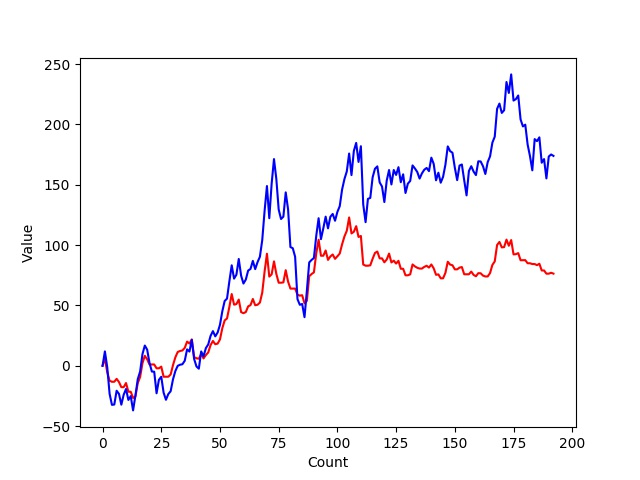
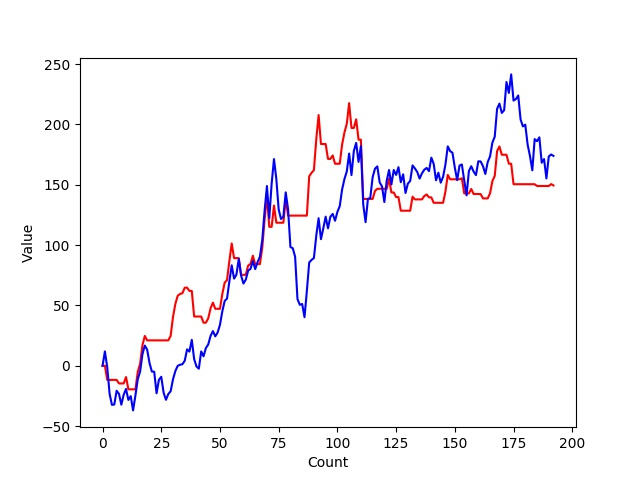
Automated Commision

diff --git a/momentum/momentum.py b/momentum/momentum.py
@@ -23,6 +23,10 @@ def momentum_investing(stock, principal, evaluate_range, evaluate_period):
         for i in range(_range, _range - evaluate_range, -1):
             if stock[_range] > stock[i]:
                 momentum += 1
+        if momentum >= 8:
+            momentum = 12
+        else:
+            momentum = 0
         stock_asset = int(total_asset * (momentum / evaluate_range))
         shares = int(stock_asset / int(stock[_range]))
         stock_asset = shares * int(stock[_range])
